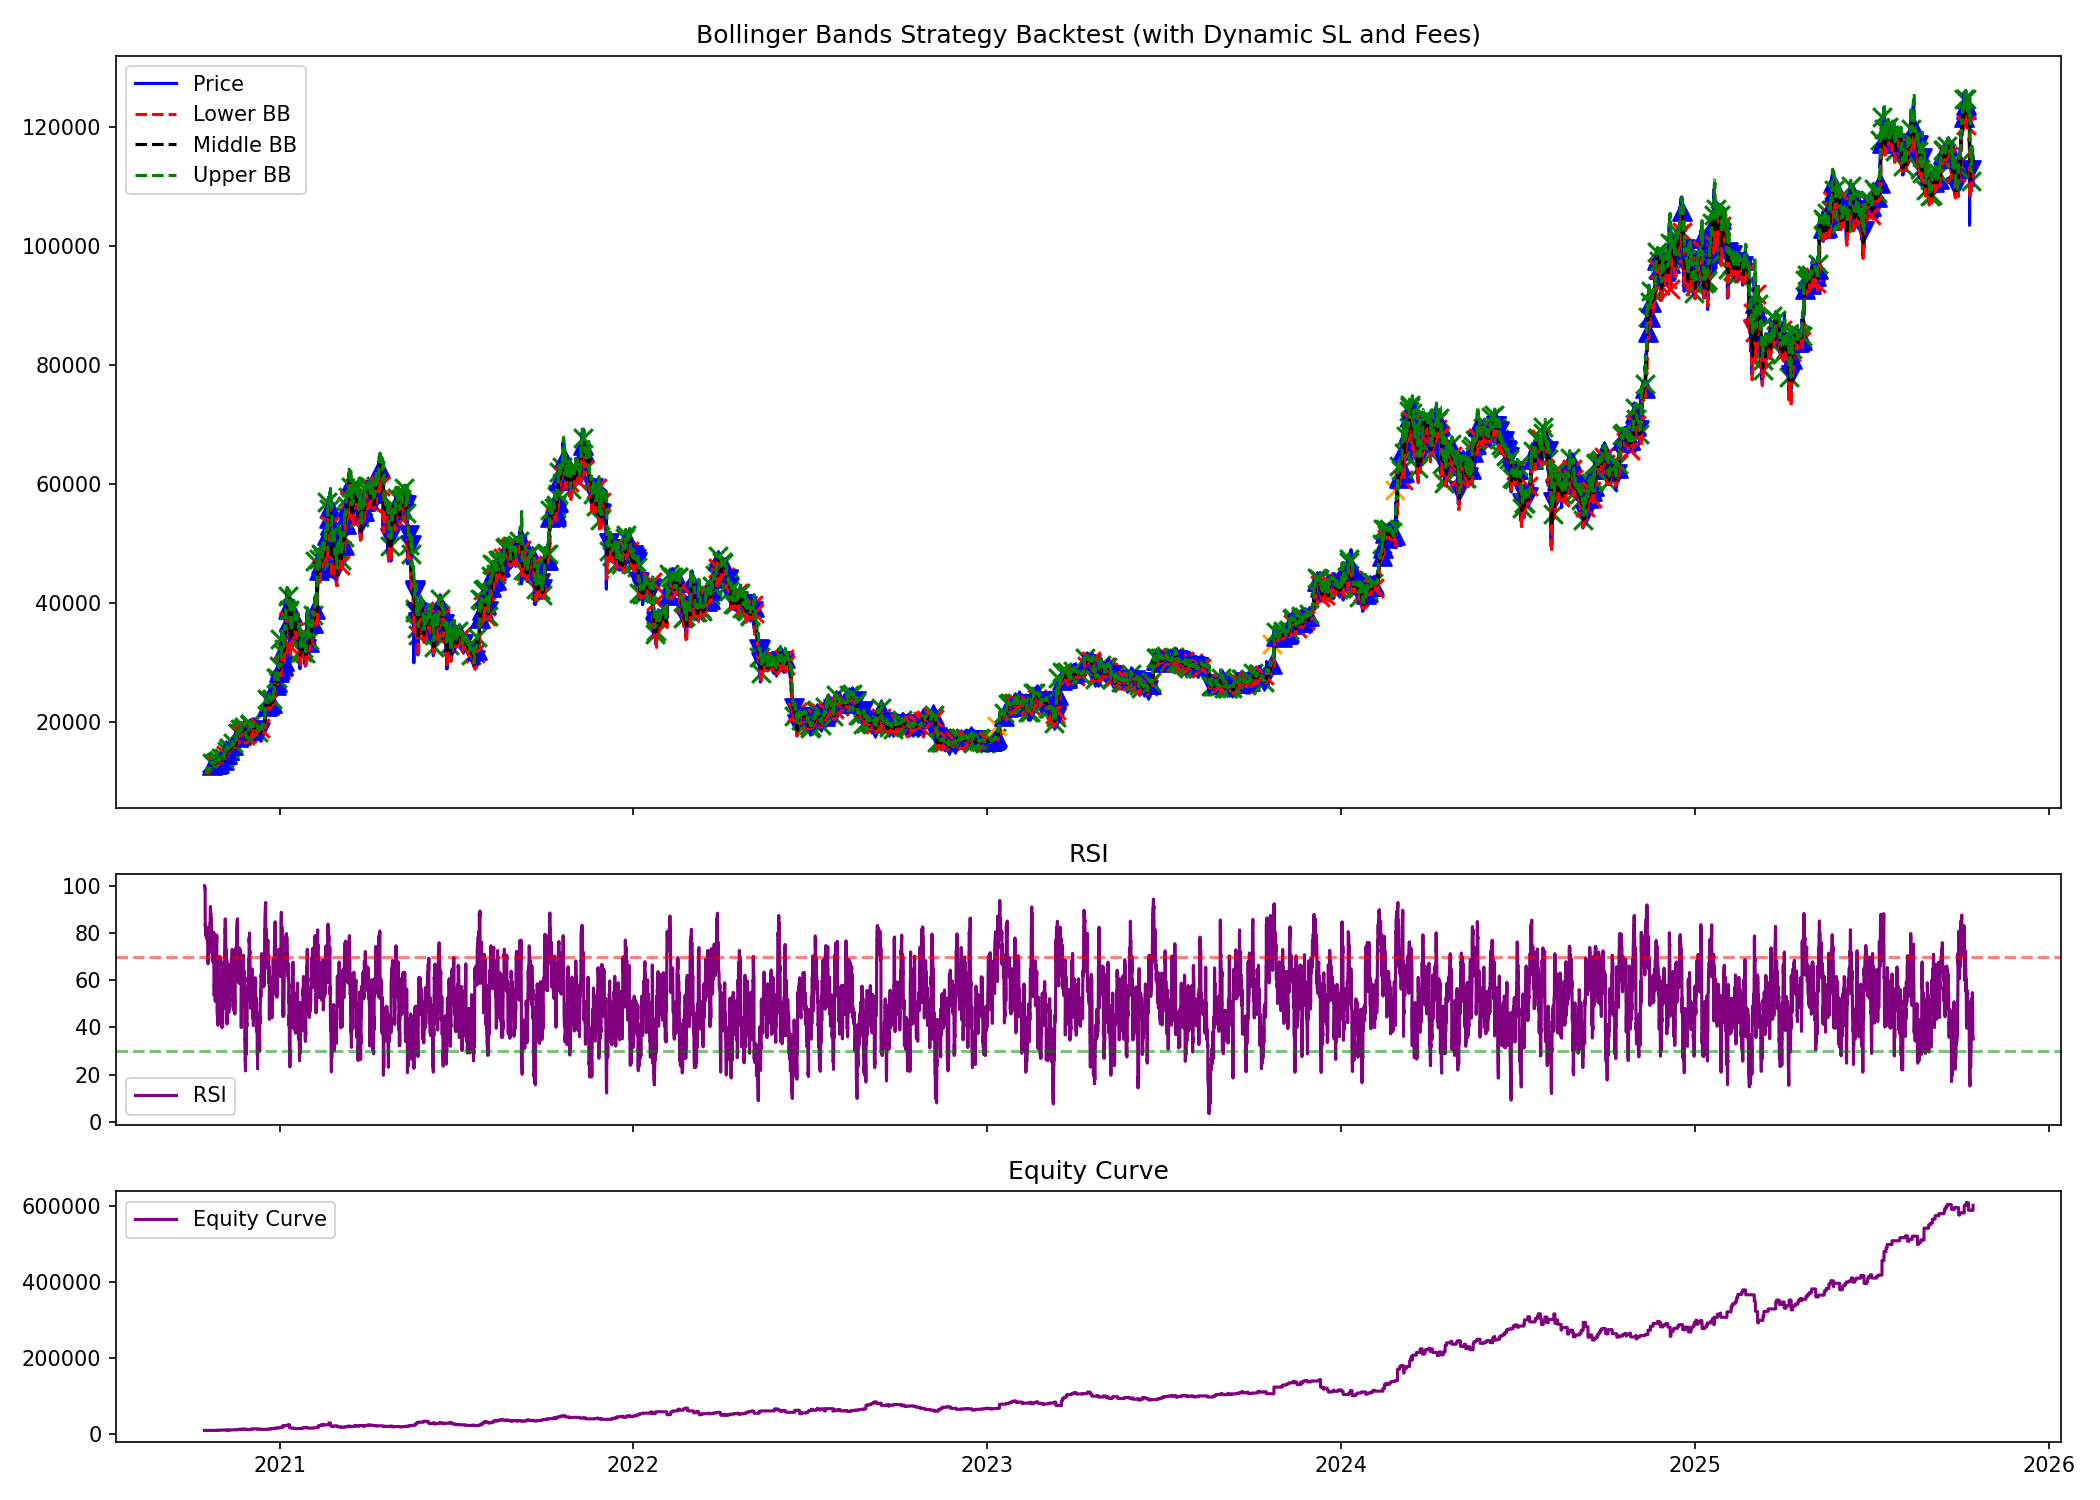
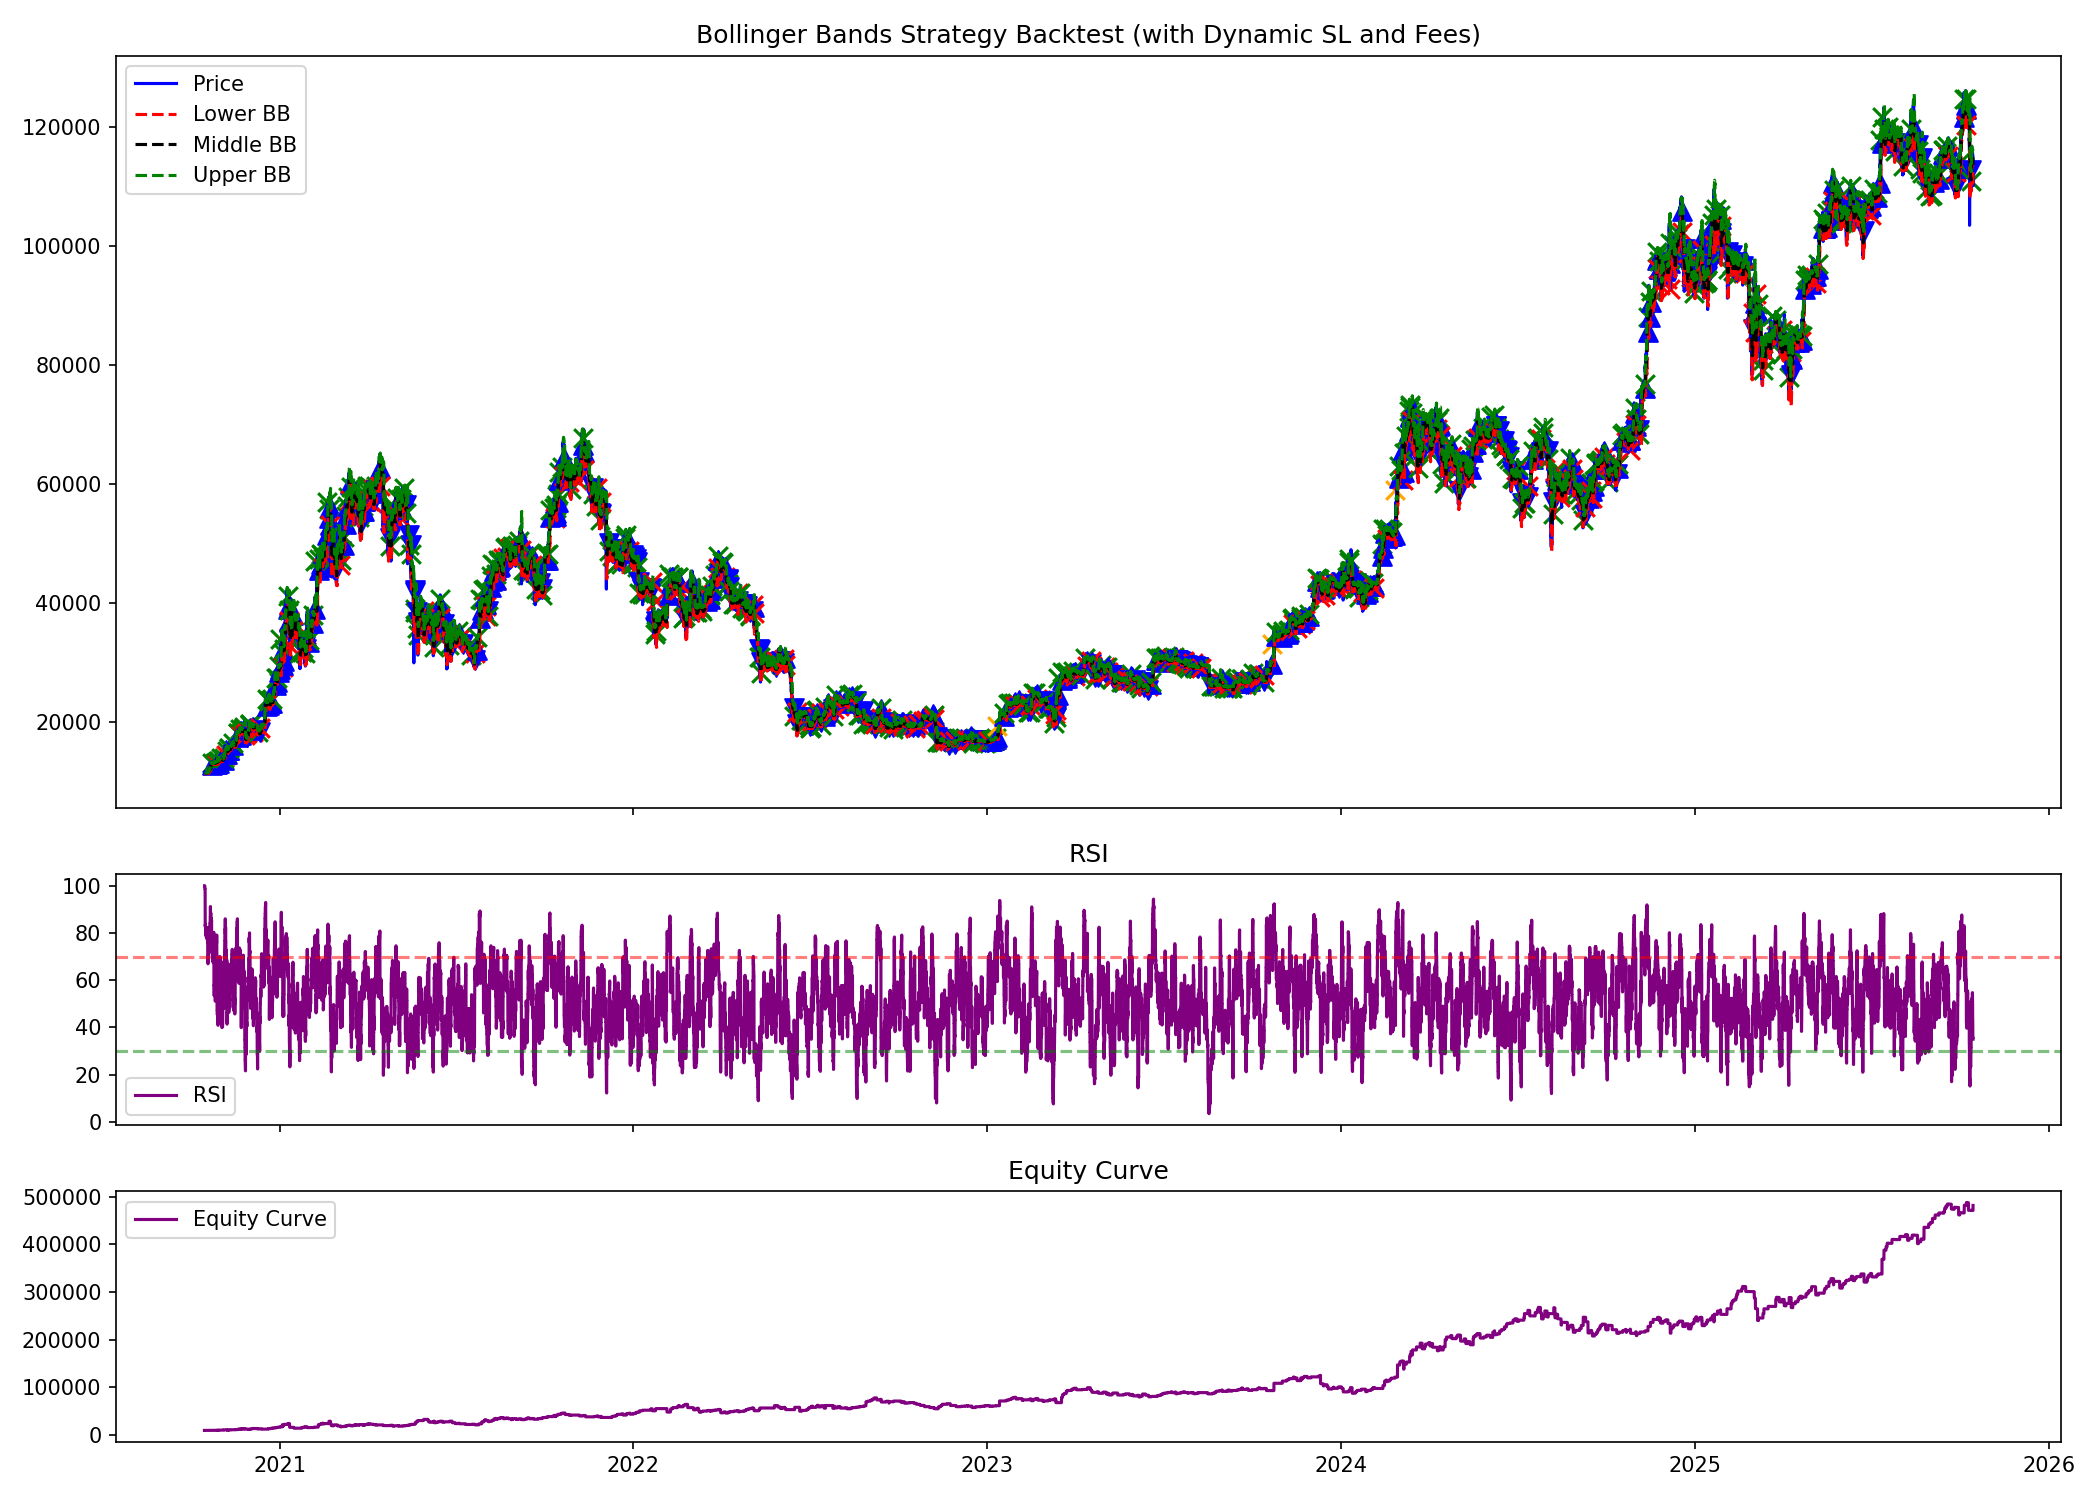
scrooge: cleanup results

diff --git a/strategy.py b/strategy.py
@@ -34,7 +34,7 @@ def save_log(log_buffer):
 
 def run_strategy(df, live=False, initial_balance=1000,
                  qty=None, sl_mult = 1.5, tp_mult = 3.0,
-                 symbol="BTCUSDT", leverage=1, use_full_balance=True, fee_rate=0.0004,
+                 symbol="BTCUSDT", leverage=1, use_full_balance=True, fee_rate=0.0005,
                  state=None, use_state=True, enable_logs=True,
                  rsi_extreme_long=75, rsi_extreme_short=25,
                  rsi_long_open_threshold=50, rsi_long_qty_threshold=30, rsi_long_close_threshold=70,
